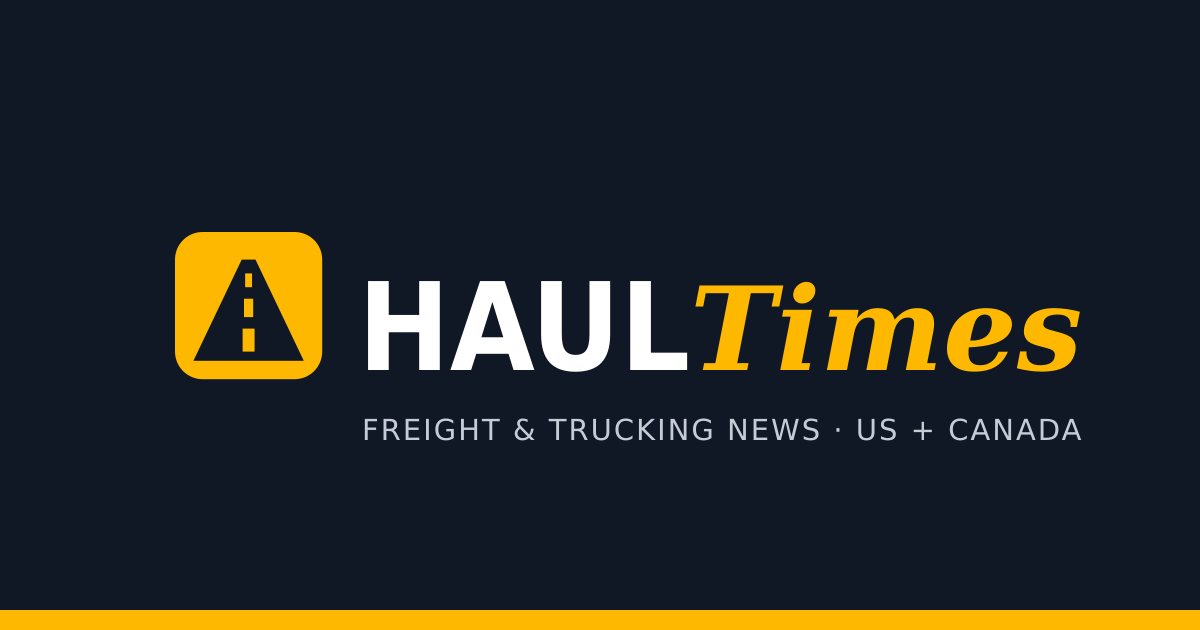
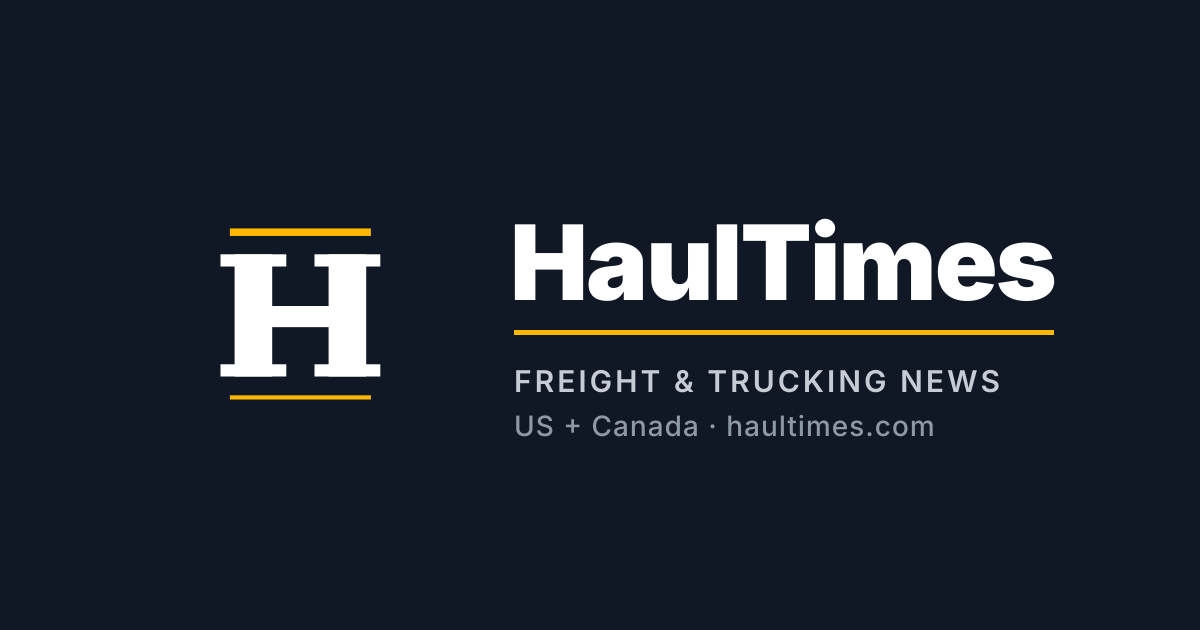
Add files via upload

Changed region(s): [[0.1233, 0.3317, 0.925, 0.6333], [0.0, 0.9651, 1.0, 1.0], [0.2775, 0.6635, 0.8942, 0.6937]]

diff --git a/static/style.css b/static/style.css
@@ -22,8 +22,8 @@ img { max-width: 100%; display: block; }
 .topbar .wrap { min-height: 34px; display: flex; flex-wrap: wrap; align-items: center; justify-content: space-between; gap: 6px 16px; }
 .topbar a { color: #C5CCD6; }
 .topbar nav { display: flex; gap: 18px; }
-.masthead .wrap { padding-block: 20px 14px; display: flex; flex-wrap: wrap; align-items: flex-end; justify-content: space-between; gap: 10px 16px; }
-.logo { display: flex; align-items: center; gap: 12px; }
+.masthead .wrap { padding-block: 22px 16px; display: flex; justify-content: center; }
+.logo { font-family: "Playfair Display", Georgia, "Times New Roman", serif; font-weight: 900; font-size: clamp(46px, 7vw, 76px); line-height: 1; letter-spacing: -0.02em; color: var(--navy); }
 .logo:hover { text-decoration: none; }
 .logo svg { width: 48px; height: 48px; flex: none; }
 .logo .w1 { font-family: var(--display); font-weight: 900; font-stretch: 75%; font-size: 50px; line-height: 1; color: var(--navy); }
@@ -175,7 +175,6 @@ footer.site nav { display: flex; flex-wrap: wrap; gap: 18px; }
   .col-lead { order: -1; margin-bottom: 18px; }
   .col-left { order: 0; }
   .stats > div { padding-left: 0; border-right: 0; }
-  .logo .w1 { font-size: 40px; } .logo .w2 { font-size: 38px; } .logo svg { width: 40px; height: 40px; }
 }
 
 /* Text-only stories (no photo yet) */
@@ -186,3 +185,11 @@ footer.site nav { display: flex; flex-wrap: wrap; gap: 18px; }
 .col-lead .kicker.hot { font-size: 13px; }
 .lead-more { margin-top: 14px; }
 .lead-more .lm { padding: 12px 0; border-bottom: 1px solid var(--rule-soft); display: flex; flex-direction: column; gap: 4px; }
+
+/* Contact form */
+form.contact { display: flex; flex-direction: column; gap: 6px; max-width: 560px; margin-top: 18px; }
+form.contact label { font-size: 14px; font-weight: 600; margin-top: 8px; }
+form.contact input, form.contact select, form.contact textarea { font: inherit; font-size: 16px; min-height: 44px; padding: 8px 12px; border: 1px solid #9AA2AD; background: #fff; color: var(--ink); }
+form.contact textarea { resize: vertical; }
+form.contact .btn { margin-top: 14px; align-self: flex-start; }
+form.contact .hp { position: absolute; left: -9999px; }

diff --git a/scripts/build_site.py b/scripts/build_site.py
@@ -25,7 +25,7 @@ E = html.escape
 NOW = datetime.now(timezone.utc)
 CFG = load_config()
 BASE = CFG["site_url"].rstrip("/")
-FONTS = ("https://fonts.googleapis.com/css2?family=Archivo:wdth,wght@62..125,400..900"
+FONTS = ("https://fonts.googleapis.com/css2?family=Playfair+Display:wght@900&family=Archivo:wdth,wght@62..125,400..900"
          "&family=Newsreader:ital,opsz,wght@0,6..72,400..600;1,6..72,500..700"
          "&family=Barlow:wght@400;500;600;700&display=swap")
 MARK = ('<svg viewBox="0 0 64 64" aria-hidden="true"><rect width="64" height="64" rx="12" fill="#FFB800"/>'
@@ -163,10 +163,10 @@ def header(active, stories):
         ticker = ('<div class="ticker"><div class="wrap"><span class="label">Latest</span>'
                   '<div class="lane"><div class="track">%s%s</div></div></div></div>') % (items, items.replace("<a ", '<a tabindex="-1" aria-hidden="true" '))
     return """<div class="topbar"><div class="wrap"><span>{today} · Updated every 15 minutes</span>
-<nav aria-label="Site"><a href="/rss.xml">RSS</a><a href="/about/#advertise">Advertise</a><a href="/about/">About</a></nav></div></div>
+<nav aria-label="Site"><a href="/rss.xml">RSS</a><a href="/contact/">Advertise</a><a href="/about/">About</a></nav></div></div>
 <header class="masthead"><div class="wrap">
-<a class="logo" href="/" aria-label="{name} home">{mark}<span class="w1">HAUL</span><span class="w2">Times</span></a>
-<span class="tagline">{tag}</span></div></header>
+<a class="logo" href="/" aria-label="{name} home">HaulTimes</a>
+</div></header>
 <nav class="sections" aria-label="Sections"><div class="wrap">{links}</div></nav>
 {ticker}
 """.format(today=E(today), name=E(CFG["site_name"]), mark=MARK, tag=E(CFG["tagline"]), links="".join(links), ticker=ticker)
@@ -174,8 +174,8 @@ def header(active, stories):
 
 def footer(scripts=""):
     return """<footer class="site"><div class="wrap">
-<span><strong style="color:#111418">{n}</strong> · Headlines link to their original publishers. Summaries are written with AI.</span>
-<nav aria-label="Footer"><a href="/about/">About</a><a href="/about/#advertise">Advertise</a><a href="/privacy/">Privacy</a><a href="/rss.xml">RSS</a></nav>
+<span><strong style="color:#111418">{n}</strong> · Freight and trucking news for the US and Canada</span>
+<nav aria-label="Footer"><a href="/about/">About</a><a href="/contact/">Contact</a><a href="/privacy/">Privacy</a><a href="/rss.xml">RSS</a></nav>
 </div></footer>
 <script src="/static/site.js" defer></script>{scripts}
 </body></html>""".format(n=E(CFG["site_name"]), scripts=scripts)
@@ -345,7 +345,6 @@ def build_story(s, stories):
 <p class="dek">{sm}</p>{why}
 <div class="source-box"><span>This is a short summary. The full story is published by <strong>{src}</strong>.</span>
 <a class="btn amber" href="{link}" rel="nofollow noopener" target="_blank">Read the full story ›</a></div>
-<p class="note">Summary written with AI from the original headline and description. Check the source for full details.</p>
 {comments}</article>
 <aside>{rel}{ad}{signup}</aside></div></main>""".format(
         cu=cat_url(s["category"]), cl=E(cat_label(s["category"])), t=E(s["title"]), tm=time_tag(s),
@@ -413,19 +412,40 @@ def build_border(border, stories):
 
 def build_static_pages(stories):
     about = """<main class="wrap prose"><h1>About {n}</h1>
-<p>{n} collects freight and trucking news from across the US and Canada in one place, updated every 15 minutes. Each story gets a short summary and a “why it matters” line, with a link to the original publisher for the full article.</p>
-<p>Summaries are written with AI from each story's headline and description, then ranked by how much they matter to carriers, owner-operators, brokers, dispatchers and shippers. Always check the original source for full details.</p>
-<p>Truck border wait times come from official U.S. Customs and Border Protection and Canada Border Services Agency data.</p>
-<h2 id="advertise">Advertise</h2>
-<p>Reach truck drivers, carriers, brokers and shippers across North America. Email <strong>{e}</strong>.</p>
-<h2>Corrections and removals</h2>
-<p>Publishers who want a story removed or corrected can email <strong>{e}</strong>.</p></main>""".format(n=E(CFG["site_name"]), e=E(CFG["contact_email"]))
+<p>{n} brings freight and trucking news from across the US and Canada into one place, updated every 15 minutes, with live truck border wait times.</p>
+<p>Every story links to its original publisher.</p>
+<p>For advertising, corrections or anything else, use our <a href="/contact/">contact form</a>.</p></main>""".format(n=E(CFG["site_name"]))
     write("/about/", head("About", "About HaulTimes, freight and trucking news for the US and Canada.", "/about/") + header("", stories) + about + footer())
+
+    key = CFG.get("contact_form_key", "")
+    if key:
+        form = """<form class="contact" action="https://api.web3forms.com/submit" method="POST">
+<input type="hidden" name="access_key" value="{k}">
+<input type="hidden" name="subject" value="New message from HaulTimes">
+<input type="hidden" name="from_name" value="HaulTimes website">
+<input type="hidden" name="redirect" value="{base}/contact/thanks/">
+<input type="checkbox" name="botcheck" class="hp" tabindex="-1" autocomplete="off" aria-hidden="true">
+<label for="c-name">Name</label><input id="c-name" name="name" type="text" required autocomplete="name">
+<label for="c-email">Email</label><input id="c-email" name="email" type="email" required autocomplete="email">
+<label for="c-topic">Topic</label><select id="c-topic" name="topic">
+<option>Advertising</option><option>Correction or removal</option><option>News tip</option><option>Other</option></select>
+<label for="c-msg">Message</label><textarea id="c-msg" name="message" rows="6" required></textarea>
+<button class="btn" type="submit">Send message</button>
+</form>""".format(k=E(key), base=E(BASE))
+    else:
+        form = '<p class="note">The contact form is being set up. Please check back soon.</p>'
+    contact = """<main class="wrap prose"><h1>Contact</h1>
+<p>Advertising, corrections, news tips or questions. Send us a message and we'll get back to you.</p>
+{f}</main>""".format(f=form)
+    write("/contact/", head("Contact", "Contact HaulTimes about advertising, corrections or news tips.", "/contact/") + header("", stories) + contact + footer())
+    write("/contact/thanks/", head("Message sent", "Thanks for contacting HaulTimes.", "/contact/thanks/") + header("", stories) +
+          '<main class="wrap prose"><h1>Thanks, your message was sent</h1><p>We\'ll reply as soon as we can. Back to the <a href="/">latest news</a>.</p></main>' + footer())
+
     privacy = """<main class="wrap prose"><h1>Privacy</h1>
-<p>{n} does not ask for your name or account to read the site.</p>
+<p>{n} does not ask for your name or an account to read the site.</p>
 <p>We use privacy-friendly analytics to count visits and popular pages. It does not use cookies or track you across other websites.</p>
-<p>If comments or a newsletter are turned on, those services handle the information you give them under their own privacy policies.</p>
-<p>Questions: <strong>{e}</strong>.</p></main>""".format(n=E(CFG["site_name"]), e=E(CFG["contact_email"]))
+<p>Messages sent through the contact form are used only to reply to you.</p>
+<p>Questions: use our <a href="/contact/">contact form</a>.</p></main>""".format(n=E(CFG["site_name"]))
     write("/privacy/", head("Privacy", "HaulTimes privacy policy.", "/privacy/") + header("", stories) + privacy + footer())
     write("/404.html", head("Page not found", "Page not found.", "/404.html") + header("", stories) +
           '<main class="wrap prose"><h1>Page not found</h1><p>That story may have expired. Head back to the <a href="/">latest news</a>.</p></main>' + footer())
@@ -454,7 +474,20 @@ def build_feeds(stories):
     rss(newest, "rss.xml", CFG["site_name"])
     top = [s for s in newest if s["importance"] >= CFG.get("top_story_score", 80)]
     rss(top, "top.xml", CFG["site_name"] + " Top Stories")
-    urls = ["/", "/border-wait-times/", "/about/"] + ["/topic/%s/" % v[1] for v in CATEGORIES.values()] + [story_url(s) for s in newest if has_page(s)]
+
+    # facebook.xml: the few biggest stories of each day, for automatic Facebook posts.
+    # A story enters once and stays, so the auto-poster never posts it twice.
+    per_day = CFG.get("facebook_posts_per_day", 6)
+    min_score = CFG.get("facebook_min_score", 70)
+    by_day = {}
+    for s in newest:
+        if s["importance"] >= min_score and hours_old(s) <= 72:
+            by_day.setdefault(when(s).astimezone(EASTERN).date(), []).append(s)
+    fb = []
+    for day, items in by_day.items():
+        fb += sorted(items, key=lambda x: x["importance"], reverse=True)[:per_day]
+    rss(sorted(fb, key=when, reverse=True), "facebook.xml", CFG["site_name"])
+    urls = ["/", "/border-wait-times/", "/about/", "/contact/"] + ["/topic/%s/" % v[1] for v in CATEGORIES.values()] + [story_url(s) for s in newest if has_page(s)]
     sm = '<?xml version="1.0" encoding="UTF-8"?><urlset xmlns="http://www.sitemaps.org/schemas/sitemap/0.9">%s</urlset>' % "".join(
         "<url><loc>%s</loc></url>" % E(BASE + u) for u in urls)
     write("/sitemap.xml", sm)

diff --git a/README.md b/README.md
@@ -49,6 +49,8 @@ Until the key is added, the site still runs and shows border wait times, but no 
 | `keep_days` | How long stories stay on the site. |
 | `top_story_score` | Stories scoring at least this go into `top.xml`, the feed for Facebook auto-posting. |
 | `news_feeds` | Where headlines come from. Add any trucking site's RSS feed. |
+| `contact_form_key` | Web3Forms access key so the contact form emails you (get one free at web3forms.com). |
+| `facebook_posts_per_day` | How many top stories per day go into facebook.xml for auto-posting. |
 | `disqus_shortname` | Turns on comments under each story once you create a free Disqus site. |
 | `newsletter_form_action` | Turns on the email signup box once you have a newsletter service form address. |
 | `show_ad_slots` | Set to `true` when you have ads to place. |
